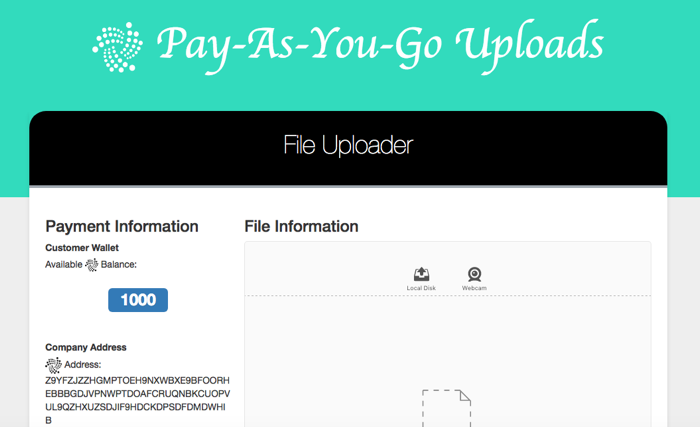
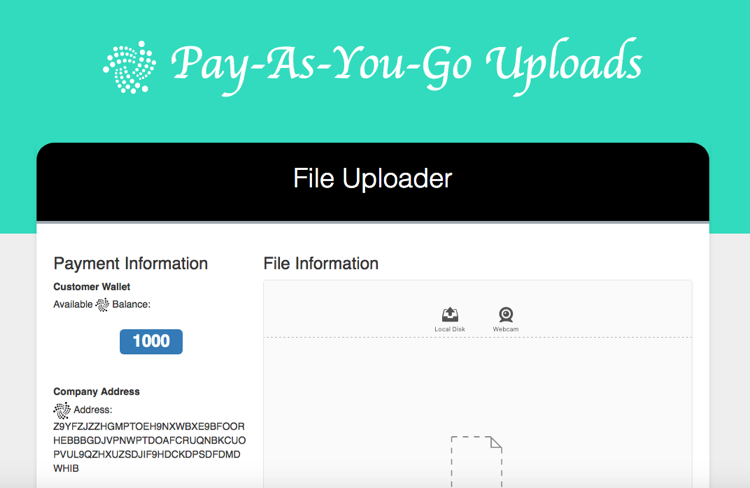
Updated font and tutorial  images to reflect new font

diff --git a/src/client/core/App/components/App.css b/src/client/core/App/components/App.css
@@ -20,6 +20,7 @@
   margin: 50px 200px;
   border-collapse: collapse;
   box-shadow: 0 5px 10px rgba(0, 0, 0, 0.1);
+  font-family: 'Ubuntu', sans-serif;
   position: relative;
   top: -180px;
 }

diff --git a/notes.md b/notes.md
@@ -22,3 +22,4 @@ Need an iota.wallet.config
 
 To make animated gifs
 https://github.com/dergachev/screengif
+BE SURE TO USE RUBY 2.4.0
